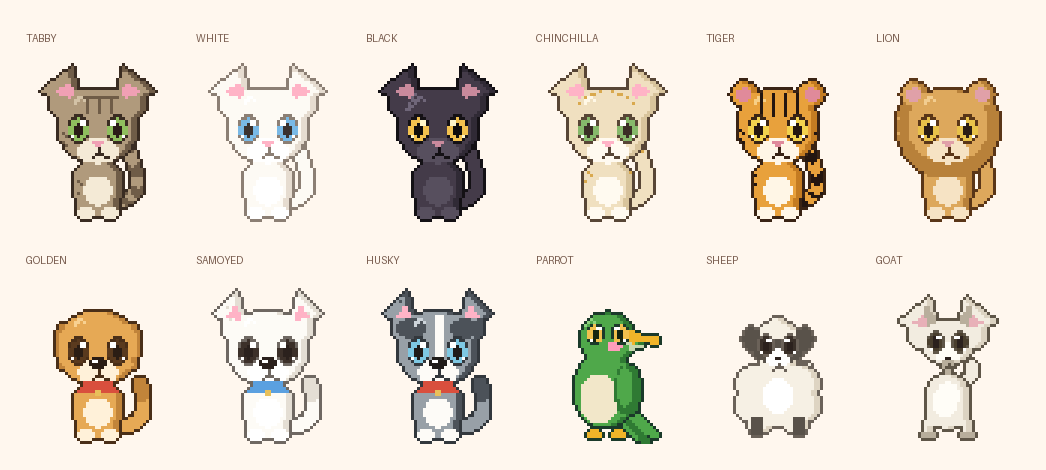
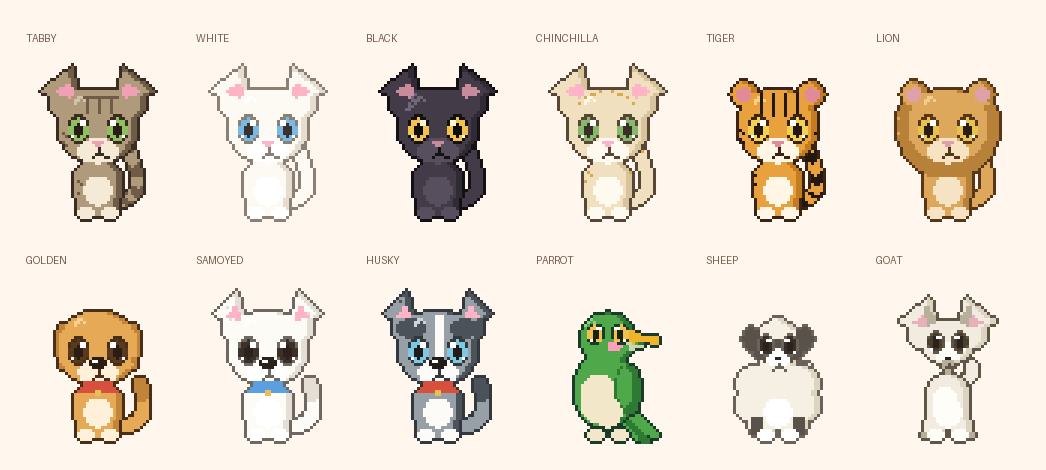
feat(dsh-pet): 转身时远侧眼睛会被口鼻挡住
之前眼睛是一个独立图层，整层压在身体上面，所以远侧那只眼睛在
侧转时直接浮在口鼻上，看着像贴纸。

现在把口鼻凸起的几何单独抽成 drawSnout / snoutCells：远侧眼睛画完
再按这组格子裁一遍，被鼻子、嘴巴、口鼻浅色块盖住的像素就当看不见，
只留下还露在毛发上的部分；转满档时整只隐入。裁的是几何而不是颜色，
哈士奇那种整脸白毛不会被误当口鼻。

顺带修掉侧转时两只眼睛糊成一只的问题：远眼往中间收的幅度按物种
给（猫狗 6.2、鹦鹉 4.0、绵羊山羊 3.0），远眼缩得也更快（1 - 0.62t），
保证半侧身时仍是两个独立的眼睛。

新增测试：半侧身时按连通块拆开，远的那块不许压在口鼻上、也不许
整只消失。

Changed region(s): [[0.7036, 0.8043, 0.7648, 0.9532], [0.5507, 0.8638, 0.6119, 0.9532], [0.8872, 0.8936, 0.9484, 0.9532]]

diff --git a/plugins/dsh-pet/client.js b/plugins/dsh-pet/client.js
@@ -241,7 +241,7 @@ function turnShift(turn, factor = 1) {
     face: t * 4.2, // 口鼻中心
     eyeFar: t * 6.2, // 远侧那只眼睛往中间挪
     eyeNear: t * 2.0, // 近侧那只眼睛往边上挪
-    farScale: 1 - 0.5 * t, // 远眼缩小
+    farScale: 1 - 0.62 * t, // 远眼缩小
     nearEar: -t * 5.0,
     farEar: t * 6.0,
     body: t * 1.2,
@@ -253,10 +253,10 @@ function turnShift(turn, factor = 1) {
 const LAYOUT = {
   cat: { eyeY: 23, near: 30.5, far: 17.5, scale: 1 },
   dog: { eyeY: 23, near: 30.5, far: 17.5, scale: 1 },
-  bird: { eyeY: 17.2, near: 28.2, far: 19.0, scale: 0.78 },
+  bird: { eyeY: 17.2, near: 28.2, far: 19.0, scale: 0.78, eyeFar: 4.0 },
   // 羊和山羊脑袋窄，眼睛得铺开一点、转身时少挪一点，才不会挤成斗鸡眼
-  sheep: { eyeY: 21.0, near: 28.0, far: 20.0, scale: 0.76, eyeNear: -0.8 },
-  goat: { eyeY: 20.0, near: 28.2, far: 19.8, scale: 0.78, eyeNear: -0.8 },
+  sheep: { eyeY: 21.0, near: 28.0, far: 20.0, scale: 0.76, eyeNear: -0.8, eyeFar: 3.0 },
+  goat: { eyeY: 20.0, near: 28.2, far: 19.8, scale: 0.78, eyeNear: -0.8, eyeFar: 3.0 },
 };
 
 const layoutOf = (breed) => LAYOUT[BREEDS[breed].species] || LAYOUT.cat;
@@ -395,47 +395,59 @@ function drawHead(g, breed, frame) {
 }
 
 /** 口鼻、胸腹、爪子这些浅色块。 */
-function drawMuzzle(g, breed, frame) {
+function drawSnout(g, breed, frame) {
   const art = BREEDS[breed];
-  const T = turnShift(frame.turn, TURN_FACTOR[BREEDS[breed].species] ?? 1);
+  const T = turnShift(frame.turn, TURN_FACTOR[art.species] ?? 1);
   const bob = (frame.breath ? -1 : 0) + (frame.lookY || 0);
-  // 眼珠往哪边看，口鼻就跟着挪一点，不然眼睛动了嘴不动，脸上会散架
   const cx = 24 + T.face + (frame.lookX || 0);
 
   if (art.species === 'bird') {
-    // 钩状喙：上喙大、下喙小，往右伸出脑袋
     const bx = 32.6 + T.t * 2 + T.face * 0.4;
-    // 上喙：从额头下方斜伸出去，末端带钩
     triangle(g, [bx - 3.0, 15.4 + bob], [bx - 2.0, 21.0 + bob], [bx + 7.4, 19.2 + bob], 'g');
     ellipse(g, bx + 6.6, 19.6 + bob, 1.9, 1.7, 'g');
-    // 下喙
     triangle(g, [bx - 2.4, 20.2 + bob], [bx - 1.2, 23.2 + bob], [bx + 4.2, 21.2 + bob], 'n');
-    // 腮红
-    ellipse(g, bx - 6.4, 21.6 + bob, 2.6, 1.8, 'p');
     return;
   }
-
   if (art.species === 'sheep') {
     ellipse(g, cx, 25.2 + bob, 4.2, 3.2, 'w');
-    ellipse(g, 24 + T.body, 38, 5.0, 6.0, 'w');
     return;
   }
-
   if (art.species === 'goat') {
     ellipse(g, cx, 23.6 + bob, 4.6, 3.4, 'w');
-    ellipse(g, 24 + T.body, 38, 4.0, 4.6, 'w');
-    // 山羊胡：用一串椭圆，左右严格对称
     for (const [dy, rx, ry] of [[0, 2.0, 1.1], [1.4, 1.7, 1.1], [2.6, 1.3, 1.1], [3.6, 0.9, 1.0]]) {
       ellipse(g, cx, 27.0 + dy + bob, rx, ry, 'n');
     }
     return;
   }
-
   if (art.species === 'cat') ellipse(g, cx, 30.4 + bob, 6.8, 4.2, 'w');
   else ellipse(g, cx, 30.2 + bob, 6.6, 4.6, 'w');
-
   if (T.t >= 0.4) {
     ellipse(g, cx + 5.4, 29.8 + bob, 4.2 * Math.min(1, T.t), 3.2 * Math.min(1, T.t) + 0.6, 'w');
+  }
+}
+
+/** 口鼻凸起占住的格子：远侧眼睛转到它后面就该被挡住。 */
+function snoutCells(breed, frame) {
+  const g = blank();
+  drawSnout(g, breed, frame);
+  const set = new Set();
+  for (let y = 0; y < H; y += 1) {
+    for (let x = 0; x < W; x += 1) {
+      if (g[y][x] !== '.') set.add(y * W + x);
+    }
+  }
+  return set;
+}
+
+function drawMuzzle(g, breed, frame) {
+  const art = BREEDS[breed];
+  const T = turnShift(frame.turn, TURN_FACTOR[art.species] ?? 1);
+  const bob = (frame.breath ? -1 : 0) + (frame.lookY || 0);
+
+  drawSnout(g, breed, frame);
+  if (art.species === 'bird') {
+    const bx = 32.6 + T.t * 2 + T.face * 0.4;
+    ellipse(g, bx - 6.4, 21.6 + bob, 2.6, 1.8, 'p');
   }
 
   ellipse(g, 24 + T.body, 43.6, 4.8, 5.0, 'w');
@@ -506,7 +518,7 @@ function drawEyeShape(g, cx, cy, kind, s) {
   rect(g, cx + k(1.2), cy + k(2.2), k(1.2), k(1.2), 's');
 }
 
-function eyeGrid(breed, frame) {
+function eyeGrid(breed, frame, body) {
   const g = blank();
   const raw = Math.max(0, Math.min(1, frame.turn || 0));
   const T = turnShift(frame.turn, TURN_FACTOR[BREEDS[breed].species] ?? 1);
@@ -529,7 +541,22 @@ function eyeGrid(breed, frame) {
         if (g[iy][mx] === '.') g[iy][mx] = ch;
       }
     } else {
-      drawEyeShape(g, L.far + T.eyeFar, y, kind, L.scale * T.farScale);
+      // 远侧眼睛转到口鼻后面去了：只留下还露在毛发上的部分，
+      // 被鼻子、嘴、口鼻浅色块挡住的像素就当作看不见
+      const far = blank();
+      // 远眼往中间收：脑袋越小收得越少，免得和近侧那只糊成一只
+      drawEyeShape(far, L.far + T.t * (L.eyeFar ?? 6.2), y, kind, L.scale * T.farScale);
+      const snout = snoutCells(breed, frame);
+      for (let iy = 0; iy < H; iy += 1) {
+        for (let ix = 0; ix < W; ix += 1) {
+          if (far[iy][ix] === '.') continue;
+          const under = body ? (body[iy][ix] !== '.' ? body[iy][ix] : '.') : 'f';
+          if (under === '.' || under === 'o') continue;
+          // 口鼻在它前面：这一段被挡住，看不见
+          if (snout.has(iy * W + ix)) continue;
+          if (g[iy][ix] === '.') g[iy][ix] = far[iy][ix];
+        }
+      }
     }
   }
   return g;
@@ -797,7 +824,7 @@ function buildSprite(breed, frame = {}) {
   }
 
   const tail = tailShape(key, f);
-  const eyes = eyeGrid(key, f);
+  const eyes = eyeGrid(key, f, rows);
 
   if (f.dir === -1) {
     return { body: flip(rows), tail: flip(tail), eyes: flip(eyes) };

diff --git a/plugins/dsh-pet/README.md b/plugins/dsh-pet/README.md
@@ -68,6 +68,7 @@
 | 眼睛跟鼠标 | 指针靠近时眼睛朝指针偏移（±1 格）；**口鼻、鼻子、嘴跟着一起挪**，眼嘴始终在同一张脸上；偏到侧面才换成转身，指针走远自动转回正面 |
 | 眼睛贴脸 | 眼睛是独立图层，画之前要压在身体像素上：`turn` 越大脑袋越窄，近侧眼睛**几乎留在原地、略微上抬并缩小**（往前甩的是鼻子和嘴），远侧眼睛边缩边往中间收，保证四档表情在每档转身下都不会顶出轮廓、也不会压到嘴上 |
 | 眼嘴同步 | 全套五官共用一套锚点：眼珠看向哪边，口鼻、鼻子、嘴和吐舌一起平移；转身时鼻子和嘴往前摆，眼睛留在原处并上抬 |
+| 远近遮挡 | 眼睛分近侧 / 远侧两只，远侧那只转到口鼻**后面**：口鼻凸起占住的格子（`snoutCells`）会把它盖掉，只剩露在毛发上的部分，转满档时彻底隐入；远眼同时收缩、往中间收，小脑袋品种收得更少，免得和近侧那只糊成一只 |
 | 转身 | 正面 ⇄ 侧转半档 ⇄ 侧面，90ms 一档；换边先转回正面再镜像 |
 | 打盹 | 金渐层专属：闭眼 + zZ 飘字，被摸会醒 |
 | 发疯 | 哈士奇专属：左右乱窜 1.5s + 台词 |
